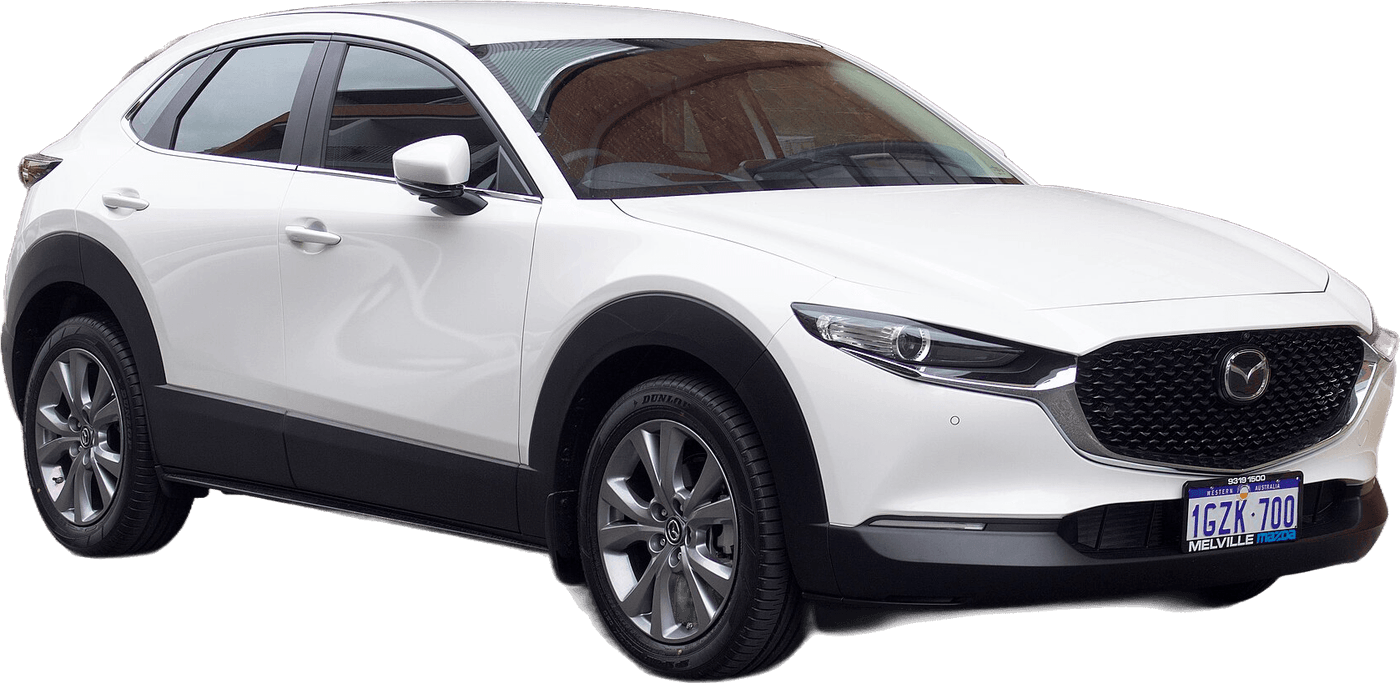
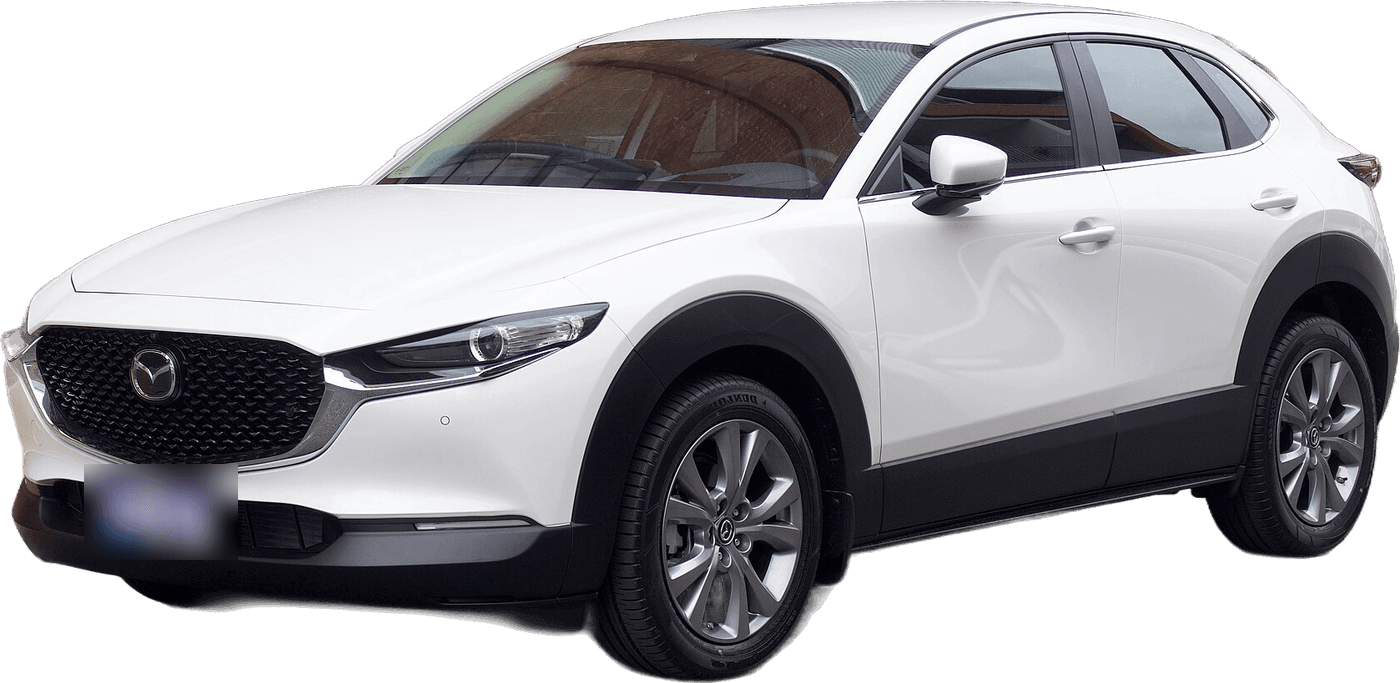
style(hero): make every hero car face left
Mirror the Mustang and CX-30 photos (plates blurred so no reversed text shows),
mirror their hotspot positions, and replace the BYD Seal, whose wordmark read
backwards when mirrored, with a Hyundai Ioniq 6 that already faces left.

diff --git a/frontend/src/lib/creditosLanding.ts b/frontend/src/lib/creditosLanding.ts
@@ -3,11 +3,11 @@ export const CREDITOS_LANDING = [
   { archivo: 'hero-bg-city.jpg', descripcion: 'Calle de Nueva York con árboles (fondo del hero)', autor: 'Rob Bye', licencia: 'CC0 1.0', url: 'https://commons.wikimedia.org/wiki/File:Downtown,_New_York,_United_States_(Unsplash).jpg' },
   { archivo: 'features-bg-snow-road.jpg', descripcion: 'Carretera y montañas nevadas en Islandia (fondo de características)', autor: 'Alexander Grebenkov', licencia: 'CC BY 3.0', url: 'https://commons.wikimedia.org/wiki/File:Road_and_snowy_mountains,_Road_1,_eastern_Iceland,_July_2019.jpg' },
   { archivo: 'hero/bmw-m2.png', descripcion: 'BMW M2 (auto del hero, fondo eliminado)', autor: 'Alexander-93', licencia: 'CC BY-SA 4.0', url: 'https://commons.wikimedia.org/wiki/File:BMW_G87_M2_1X7A1838.jpg' },
-  { archivo: 'hero/ford-mustang.png', descripcion: 'Ford Mustang (auto del hero, fondo eliminado)', autor: 'Alexander Migl', licencia: 'CC BY-SA 4.0', url: 'https://commons.wikimedia.org/wiki/File:Ford_Mustang_VII_GT_Rutesheimer_Autoschau_2025_DSC_9234.jpg' },
-  { archivo: 'hero/byd-seal.png', descripcion: 'BYD Seal (auto del hero, fondo eliminado)', autor: 'User3204', licencia: 'CC BY-SA 4.0', url: 'https://commons.wikimedia.org/wiki/File:2022_BYD_Seal.jpg' },
+  { archivo: 'hero/ford-mustang.png', descripcion: 'Ford Mustang (auto del hero, fondo eliminado y espejada)', autor: 'Alexander Migl', licencia: 'CC BY-SA 4.0', url: 'https://commons.wikimedia.org/wiki/File:Ford_Mustang_VII_GT_Rutesheimer_Autoschau_2025_DSC_9234.jpg' },
+  { archivo: 'hero/hyundai-ioniq-6.png', descripcion: 'Hyundai Ioniq 6 (auto del hero, fondo eliminado)', autor: 'Kevauto', licencia: 'CC BY-SA 4.0', url: 'https://commons.wikimedia.org/wiki/File:2023_Hyundai_Ioniq_6_Limited,_front_4.27.23.jpg' },
   { archivo: 'hero/subaru-wrx.png', descripcion: 'Subaru WRX (auto del hero, fondo eliminado)', autor: 'Elise240SX', licencia: 'CC BY-SA 4.0', url: 'https://commons.wikimedia.org/wiki/File:2022_Subaru_WRX_Sport-Tech_in_World_Rally_Blue_Pearl,_Front_Left,_06-03-2022.jpg' },
   { archivo: 'hero/honda-civic.png', descripcion: 'Honda Civic e:HEV (auto del hero, fondo eliminado)', autor: 'M 93', licencia: 'CC BY-SA 3.0 DE', url: 'https://commons.wikimedia.org/wiki/File:Honda_Civic_e-HEV_Sport_(XI)_%E2%80%93_f_30062024.jpg' },
   { archivo: 'hero/toyota-corolla-cross.png', descripcion: 'Toyota Corolla Cross (auto del hero, fondo eliminado)', autor: 'Mr.choppers', licencia: 'CC BY-SA 3.0', url: 'https://commons.wikimedia.org/wiki/File:2023_Toyota_Corolla_Cross_XLE_4WD_in_Wind_Chill_Pearl,_front_left.jpg' },
-  { archivo: 'hero/mazda-cx-30.png', descripcion: 'Mazda CX-30 (auto del hero, fondo eliminado)', autor: 'EurovisionNim', licencia: 'CC BY-SA 4.0', url: 'https://commons.wikimedia.org/wiki/File:Mazda_CX-30_Touring,_2020_front.jpg' },
+  { archivo: 'hero/mazda-cx-30.png', descripcion: 'Mazda CX-30 (auto del hero, fondo eliminado y espejada)', autor: 'EurovisionNim', licencia: 'CC BY-SA 4.0', url: 'https://commons.wikimedia.org/wiki/File:Mazda_CX-30_Touring,_2020_front.jpg' },
   { archivo: 'car-top-view.png', descripcion: 'Auto visto desde arriba (fondo eliminado)', autor: 'Norbert Aepli', licencia: 'CC BY 3.0', url: 'https://commons.wikimedia.org/wiki/File:2013-02-24_Smart_in_Winter.JPG' },
 ]

diff --git a/frontend/src/lib/autosHero.ts b/frontend/src/lib/autosHero.ts
@@ -1,6 +1,6 @@
 import bmwM2 from '@/assets/images/hero/bmw-m2.png'
 import fordMustang from '@/assets/images/hero/ford-mustang.png'
-import bydSeal from '@/assets/images/hero/byd-seal.png'
+import hyundaiIoniq6 from '@/assets/images/hero/hyundai-ioniq-6.png'
 import subaruWrx from '@/assets/images/hero/subaru-wrx.png'
 import hondaCivic from '@/assets/images/hero/honda-civic.png'
 import toyotaCorollaCross from '@/assets/images/hero/toyota-corolla-cross.png'
@@ -26,7 +26,7 @@ export interface AutoHero {
   pregunta: [string, string]
 }
 
-/** Autos del hero: fotos reales con fondo eliminado (ancho 1400 px). Rotan cada minuto. */
+/** Autos del hero: fotos reales con fondo eliminado (ancho 1400 px), todos mirando a la izquierda. Rotan cada minuto. */
 export const AUTOS_HERO: AutoHero[] = [
   {
     slug: 'bmw-m2-2025-m2-coupe-at', nombre: 'BMW M2 2025', imagen: bmwM2, alto: 632,
@@ -39,14 +39,14 @@ export const AUTOS_HERO: AutoHero[] = [
     slug: 'ford-mustang-2026-dark-horse-5-0-v8-at', nombre: 'Ford Mustang 2026', imagen: fordMustang, alto: 673,
     alt: 'Ford Mustang azul visto de tres cuartos frontal',
     credito: { autor: 'Alexander Migl', licencia: 'CC BY-SA 4.0', url: 'https://commons.wikimedia.org/wiki/File:Ford_Mustang_VII_GT_Rutesheimer_Autoschau_2025_DSC_9234.jpg' },
-    puntos: { motor: [72, 36], costo: [18, 48], extra: [44, 78] }, extra: 'aceleracion',
+    puntos: { motor: [28, 36], costo: [82, 48], extra: [56, 78] }, extra: 'aceleracion',
     pregunta: ['¿Es', 'rápido?'],
   },
   {
-    slug: 'byd-seal-2026-performance-awd', nombre: 'BYD Seal 2026', imagen: bydSeal, alto: 728,
-    alt: 'BYD Seal celeste visto de tres cuartos frontal',
-    credito: { autor: 'User3204', licencia: 'CC BY-SA 4.0', url: 'https://commons.wikimedia.org/wiki/File:2022_BYD_Seal.jpg' },
-    puntos: { motor: [62, 38], costo: [16, 44], extra: [37, 76] }, extra: 'autonomia',
+    slug: 'hyundai-ioniq-6-2025-long-range-rwd', nombre: 'Hyundai Ioniq 6 2025', imagen: hyundaiIoniq6, alto: 621,
+    alt: 'Hyundai Ioniq 6 gris visto de tres cuartos frontal',
+    credito: { autor: 'Kevauto', licencia: 'CC BY-SA 4.0', url: 'https://commons.wikimedia.org/wiki/File:2023_Hyundai_Ioniq_6_Limited,_front_4.27.23.jpg' },
+    puntos: { motor: [28, 38], costo: [72, 48], extra: [50, 76] }, extra: 'autonomia',
     pregunta: ['¿Llega', 'lejos?'],
   },
   {
@@ -74,7 +74,7 @@ export const AUTOS_HERO: AutoHero[] = [
     slug: 'mazda-cx-30-2026-carbon-turbo-awd', nombre: 'Mazda CX-30 2026', imagen: mazdaCx30, alto: 683,
     alt: 'Mazda CX-30 blanca vista de tres cuartos frontal',
     credito: { autor: 'EurovisionNim', licencia: 'CC BY-SA 4.0', url: 'https://commons.wikimedia.org/wiki/File:Mazda_CX-30_Touring,_2020_front.jpg' },
-    puntos: { motor: [76, 40], costo: [22, 44], extra: [8, 26] }, extra: 'baul',
+    puntos: { motor: [24, 40], costo: [78, 44], extra: [92, 26] }, extra: 'baul',
     pregunta: ['¿Le cabe', 'todo?'],
   },
 ]

diff --git a/CREDITS.md b/CREDITS.md
@@ -7,10 +7,10 @@ Imágenes de la portada (`frontend/src/assets/images/`). Se sirven redimensionad
 | `hero-bg-city.jpg` | [Wikimedia Commons](https://commons.wikimedia.org/wiki/File:Downtown,_New_York,_United_States_(Unsplash).jpg), importada de Unsplash | Rob Bye | CC0 1.0 |
 | `features-bg-snow-road.jpg` | [Wikimedia Commons](https://commons.wikimedia.org/wiki/File:Road_and_snowy_mountains,_Road_1,_eastern_Iceland,_July_2019.jpg) | Alexander Grebenkov | [CC BY 3.0](https://creativecommons.org/licenses/by/3.0/) |
 | `hero/bmw-m2.png` | [Wikimedia Commons](https://commons.wikimedia.org/wiki/File:BMW_G87_M2_1X7A1838.jpg), fondo eliminado | Alexander-93 | CC BY-SA 4.0 (la versión recortada se comparte con la misma licencia) |
-| `hero/ford-mustang.png` | [Wikimedia Commons](https://commons.wikimedia.org/wiki/File:Ford_Mustang_VII_GT_Rutesheimer_Autoschau_2025_DSC_9234.jpg), fondo eliminado | Alexander Migl | CC BY-SA 4.0 (la versión recortada se comparte con la misma licencia) |
-| `hero/byd-seal.png` | [Wikimedia Commons](https://commons.wikimedia.org/wiki/File:2022_BYD_Seal.jpg), fondo eliminado | User3204 | CC BY-SA 4.0 (la versión recortada se comparte con la misma licencia) |
+| `hero/ford-mustang.png` | [Wikimedia Commons](https://commons.wikimedia.org/wiki/File:Ford_Mustang_VII_GT_Rutesheimer_Autoschau_2025_DSC_9234.jpg), fondo eliminado, espejada y con la placa desenfocada | Alexander Migl | CC BY-SA 4.0 (la versión recortada se comparte con la misma licencia) |
+| `hero/hyundai-ioniq-6.png` | [Wikimedia Commons](https://commons.wikimedia.org/wiki/File:2023_Hyundai_Ioniq_6_Limited,_front_4.27.23.jpg), fondo eliminado | Kevauto | CC BY-SA 4.0 (la versión recortada se comparte con la misma licencia) |
 | `hero/subaru-wrx.png` | [Wikimedia Commons](https://commons.wikimedia.org/wiki/File:2022_Subaru_WRX_Sport-Tech_in_World_Rally_Blue_Pearl,_Front_Left,_06-03-2022.jpg), fondo eliminado | Elise240SX | CC BY-SA 4.0 (la versión recortada se comparte con la misma licencia) |
 | `hero/honda-civic.png` | [Wikimedia Commons](https://commons.wikimedia.org/wiki/File:Honda_Civic_e-HEV_Sport_(XI)_%E2%80%93_f_30062024.jpg), fondo eliminado | M 93 | CC BY-SA 3.0 DE (la versión recortada se comparte con la misma licencia) |
 | `hero/toyota-corolla-cross.png` | [Wikimedia Commons](https://commons.wikimedia.org/wiki/File:2023_Toyota_Corolla_Cross_XLE_4WD_in_Wind_Chill_Pearl,_front_left.jpg), fondo eliminado | Mr.choppers | CC BY-SA 3.0 (la versión recortada se comparte con la misma licencia) |
-| `hero/mazda-cx-30.png` | [Wikimedia Commons](https://commons.wikimedia.org/wiki/File:Mazda_CX-30_Touring,_2020_front.jpg), fondo eliminado | EurovisionNim | CC BY-SA 4.0 (la versión recortada se comparte con la misma licencia) |
+| `hero/mazda-cx-30.png` | [Wikimedia Commons](https://commons.wikimedia.org/wiki/File:Mazda_CX-30_Touring,_2020_front.jpg), fondo eliminado, espejada y con la placa desenfocada | EurovisionNim | CC BY-SA 4.0 (la versión recortada se comparte con la misma licencia) |
 | `car-top-view.png` | [Wikimedia Commons](https://commons.wikimedia.org/wiki/File:2013-02-24_Smart_in_Winter.JPG), fondo eliminado y girada | Norbert Aepli (Noebu) | [CC BY 3.0](https://creativecommons.org/licenses/by/3.0/) |
